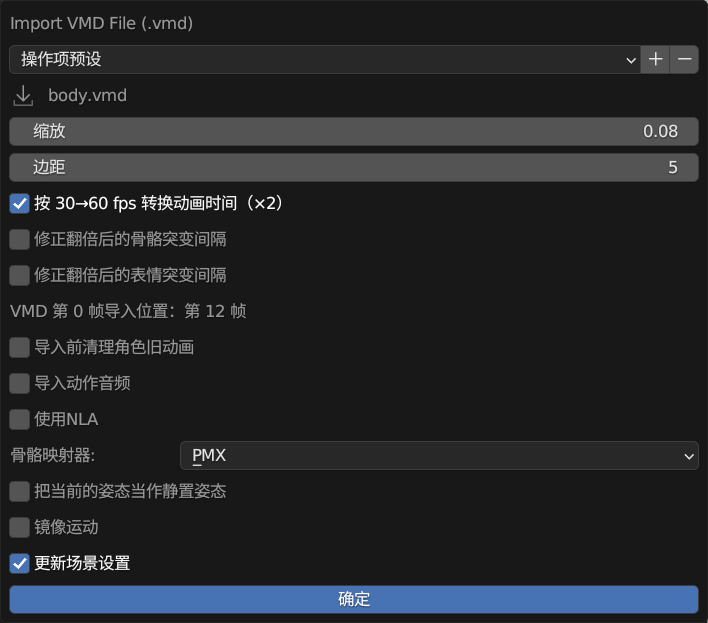
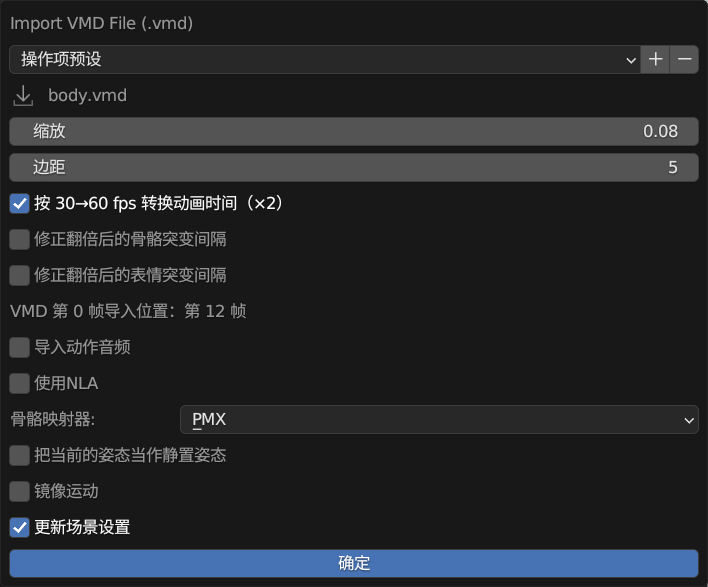
Make character and armature motion cleanup automatic in v3.0.1

Changed region(s): [[0.0, 0.0307, 0.9944, 0.9813], [0.8701, 0.0613, 0.9944, 0.1533], [0.9633, 0.7053, 0.9944, 0.7359]]

diff --git a/mmd_tools/operators/fileio.py b/mmd_tools/operators/fileio.py
@@ -537,8 +537,8 @@ class ImportVmd(Operator, ImportHelper, PreferencesMixin):
         name='修正翻倍后的表情突变间隔', default=False,
         description='仅时间 ×2 时生效；保守识别表情权重的持续跳变，只将对应表情关键帧前移 1 帧；跳过连续渐变和短暂尖峰，仍可能误判，请检查结果')
     clear_previous_motion: bpy.props.BoolProperty(
-        name='导入前清理角色旧动画', default=False,
-        description='仅对选中的角色根空物体生效：清除旧骨骼动画并重置姿态；有关键帧的表情归零，保留未打帧的表情值')
+        name='旧动画自动清理（旧参数兼容）', default=True, options={'HIDDEN', 'SKIP_SAVE'},
+        description='旧参数仅供历史预设和脚本兼容；根对象或骨架导入匹配动作时始终清理，传入 False 也不会关闭')
     import_motion_audio: bpy.props.BoolProperty(name='导入动作音频', default=False,
         description='仅选择角色根空物体时生效；查找 VMD 同目录音频，新增音轨并对齐动作起点')
     replace_motion_audio: bpy.props.BoolProperty(name='替换已有音频', default=False,
@@ -570,9 +570,6 @@ class ImportVmd(Operator, ImportHelper, PreferencesMixin):
         layout.label(text='VMD 第 0 帧导入位置：第 %d 帧' % ((self.margin + 1) * (2 if self.convert_to_60fps else 1)))
         from ..core.vmd.import_options import selected_model_roots
         if selected_model_roots(context):
-            layout.prop(self, 'clear_previous_motion')
-            if self.clear_previous_motion:
-                layout.label(text='将清理骨骼、NLA 和有动画的表情', icon='INFO')
             layout.prop(self, 'import_motion_audio')
             if self.import_motion_audio:
                 layout.prop(self, 'replace_motion_audio')
@@ -600,11 +597,13 @@ class ImportVmd(Operator, ImportHelper, PreferencesMixin):
         layout.prop(self, 'update_scene_settings')
 
     def execute(self, context):
-        from ..core.vmd.import_options import selected_model_roots, clear_model_motion
+        from ..core.vmd.import_options import selected_model_roots, clear_model_motion, clear_armature_motion
         if not self.properties.is_property_set('convert_to_60fps'):
             initialize_vmd_timing(self, context)
         roots = selected_model_roots(context)
-        roots_to_clear = set(roots) if self.clear_previous_motion else set()
+        roots_to_clear = set(roots)
+        armatures_to_clear = {obj for obj in context.selected_objects if obj.type == 'ARMATURE'}
+        pose_reference = {}
         root_members = {}
         selected_objects = set(context.selected_objects)
         camera_redirects = {obj: vmd_importer.VMDImporter.resolve_target(obj)
@@ -672,9 +671,20 @@ class ImportVmd(Operator, ImportHelper, PreferencesMixin):
                                 if (root in roots_to_clear or self.import_motion_audio)
                                 and any(importer.target_kind(obj) in {'bone', 'morph'}
                                        and importer.has_data_for(obj, match_names=True) for obj in members)}
+            compatible_armatures = {obj for obj in armatures_to_clear
+                                    if importer.has_data_for(obj, match_names=True)}
+            if self.use_pose_mode:
+                # Keep the explicitly requested pose as the import reference,
+                # even though old channels and the live pose are reset below.
+                for armature in bone_cut_targets:
+                    importer.prepare_pose_reference(armature, pose_reference)
             for root in roots_to_clear & compatible_roots:
                 clear_model_motion(context, root)
+                armatures_to_clear.discard(mmd_model.Model(root).armature())
             roots_to_clear -= compatible_roots
+            for armature in compatible_armatures & armatures_to_clear:
+                clear_armature_motion(context, armature)
+            armatures_to_clear -= compatible_armatures
             # Redirect the selection only after a valid camera VMD is parsed.
             # Wrong/empty files and a cancelled dialog leave selection alone.
             for root, camera in camera_redirects.items():

diff --git a/mmd_tools/core/vmd/importer.py b/mmd_tools/core/vmd/importer.py
@@ -282,6 +282,21 @@ class VMDImporter:
         self.__cut_cache = {'bone': {}, 'morph': {}}
         self.__cut_detection_seconds = 0.0
         self.assigned_action_count = 0
+        self.__pose_reference = {}
+
+    def prepare_pose_reference(self, armature, reference):
+        """Snapshot explicit pose-as-rest settings before automatic cleanup."""
+        if self.__bone_util_cls is not BoneConverterPoseMode:
+            return
+        self.__pose_reference = reference
+        for bone in armature.pose.bones:
+            pointer = bone.as_pointer()
+            if pointer in reference:
+                continue
+            path = {'QUATERNION': 'rotation_quaternion', 'AXIS_ANGLE': 'rotation_axis_angle'}.get(bone.rotation_mode, 'rotation_euler')
+            rotation = getattr(bone, path)
+            rotation = rotation.copy() if hasattr(rotation, 'copy') else rotation[:]
+            reference[pointer] = (BoneConverterPoseMode(bone, self.__scale), bone.location.copy(), rotation)
 
     @staticmethod
     def resolve_target(obj):
@@ -427,7 +442,8 @@ class VMDImporter:
             raise TypeError('Unsupported type: {0}'.format(type(value)))
 
     def __getBoneConverter(self, bone):
-        converter = self.__bone_util_cls(bone, self.__scale)
+        reference = self.__pose_reference.get(bone.as_pointer())
+        converter = reference[0] if reference else self.__bone_util_cls(bone, self.__scale)
         mode = bone.rotation_mode
         compatible_quaternion = self.__minRotationDiff
         class _ConverterWrap:
@@ -517,8 +533,9 @@ class VMDImporter:
 
             fcurves = [dummy_keyframe_points]*7 # x, y, z, r0, r1, r2, (r3)
             data_path_rot = prop_rot_map.get(bone.rotation_mode, 'rotation_euler')
-            bone_rotation = getattr(bone, data_path_rot)
-            default_values = list(bone.location) + list(bone_rotation)
+            reference = self.__pose_reference.get(bone.as_pointer())
+            bone_rotation = reference[2] if reference else getattr(bone, data_path_rot)
+            default_values = list(reference[1] if reference else bone.location) + list(bone_rotation)
             data_path = 'pose.bones["%s"].location'%bone.name
             for axis_i in range(3):
                 fcurves[axis_i] = action.fcurves.new(data_path=data_path, index=axis_i, action_group=bone.name)

diff --git a/mmd_tools/core/vmd/import_options.py b/mmd_tools/core/vmd/import_options.py
@@ -193,6 +193,12 @@ def _reset_pose_without_autokey(context, armature):
         armature.hide_set(hidden)
 
 
+def clear_armature_motion(context, armature):
+    """Reset just the selected armature, leaving model morphs untouched."""
+    _reset_pose(context, armature)
+    context.view_layer.update()
+
+
 def clear_model_motion(context, root):
     rig = Model(root)
     meshes = list(rig.meshes())

diff --git a/CHANGELOG.md b/CHANGELOG.md
@@ -9,6 +9,7 @@
 
 ### 修复问题
 
+- 旧动画清理并入人物动作导入流程，取消独立开关：选中角色根空物体或骨架导入匹配动作时始终执行完整清理。根空物体清理骨骼和已打帧表情，骨架仅清理骨骼；保留表情驱动和未打帧的表情数值，批量导入只清理一次。
 - 修复人物动作导入窗口显示镜头修正的问题。角色根空物体、骨架、表情控制器和镜头分别显示适用选项，隐藏选项不会跨目标执行；关闭时间 ×2 后隐藏并停止三项间隔修正。
 - 修复连续三帧、四帧等镜头关键帧组被全部当成切镜的问题。按实际跳变区分切镜与前后运动，仅移动切镜后一帧，保留其他关键帧及其正常翻倍时间。
 - 修复选错 VMD、空文件或完全不匹配的动作可能清理角色旧动画的问题；没有导入匹配动画时，不调整工程帧率、帧范围或音频。

diff --git a/mmd_tools/CHANGELOG.md b/mmd_tools/CHANGELOG.md
@@ -9,6 +9,7 @@
 
 ### 修复问题
 
+- 旧动画清理并入人物动作导入流程，取消独立开关：选中角色根空物体或骨架导入匹配动作时始终执行完整清理。根空物体清理骨骼和已打帧表情，骨架仅清理骨骼；保留表情驱动和未打帧的表情数值，批量导入只清理一次。
 - 修复人物动作导入窗口显示镜头修正的问题。角色根空物体、骨架、表情控制器和镜头分别显示适用选项，隐藏选项不会跨目标执行；关闭时间 ×2 后隐藏并停止三项间隔修正。
 - 修复连续三帧、四帧等镜头关键帧组被全部当成切镜的问题。按实际跳变区分切镜与前后运动，仅移动切镜后一帧，保留其他关键帧及其正常翻倍时间。
 - 修复选错 VMD、空文件或完全不匹配的动作可能清理角色旧动画的问题；没有导入匹配动画时，不调整工程帧率、帧范围或音频。

diff --git a/RELEASE.md b/RELEASE.md
@@ -7,6 +7,7 @@
 
 ## 修复问题
 
+- 旧动画清理并入人物动作导入流程，取消独立开关：选中角色根空物体或骨架导入匹配动作时始终执行完整清理。根空物体清理骨骼和已打帧表情，骨架仅清理骨骼；保留表情驱动和未打帧的表情数值，批量导入只清理一次。
 - 修复人物动作导入窗口显示镜头修正的问题。角色根空物体、骨架、表情控制器和镜头分别显示适用选项，隐藏选项不会跨目标执行；关闭时间 ×2 后隐藏并停止三项间隔修正。
 - 修复连续三帧、四帧等镜头关键帧组被全部当成切镜的问题。按实际跳变区分切镜与前后运动，仅移动切镜后一帧，保留其他关键帧及其正常翻倍时间。
 - 修复选错 VMD、空文件或完全不匹配的动作可能清理角色旧动画的问题；没有导入匹配动画时，不调整工程帧率、帧范围或音频。

diff --git a/mmd_tools/RELEASE.md b/mmd_tools/RELEASE.md
@@ -7,6 +7,7 @@
 
 ## 修复问题
 
+- 旧动画清理并入人物动作导入流程，取消独立开关：选中角色根空物体或骨架导入匹配动作时始终执行完整清理。根空物体清理骨骼和已打帧表情，骨架仅清理骨骼；保留表情驱动和未打帧的表情数值，批量导入只清理一次。
 - 修复人物动作导入窗口显示镜头修正的问题。角色根空物体、骨架、表情控制器和镜头分别显示适用选项，隐藏选项不会跨目标执行；关闭时间 ×2 后隐藏并停止三项间隔修正。
 - 修复连续三帧、四帧等镜头关键帧组被全部当成切镜的问题。按实际跳变区分切镜与前后运动，仅移动切镜后一帧，保留其他关键帧及其正常翻倍时间。
 - 修复选错 VMD、空文件或完全不匹配的动作可能清理角色旧动画的问题；没有导入匹配动画时，不调整工程帧率、帧范围或音频。
